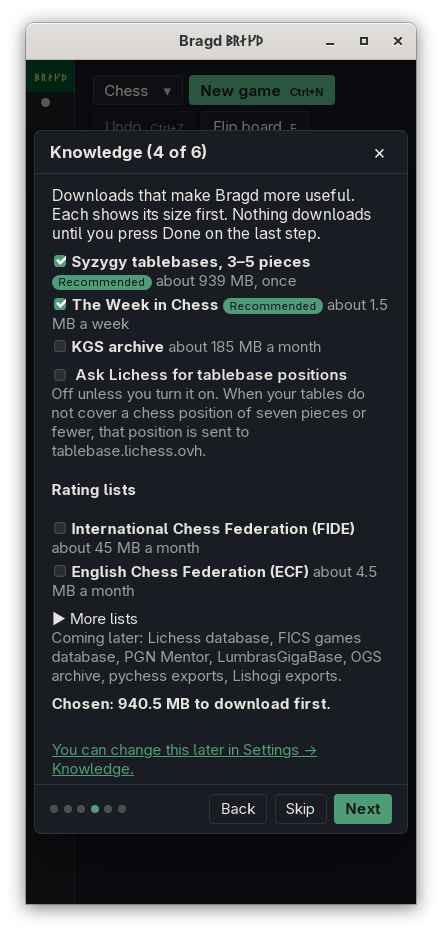
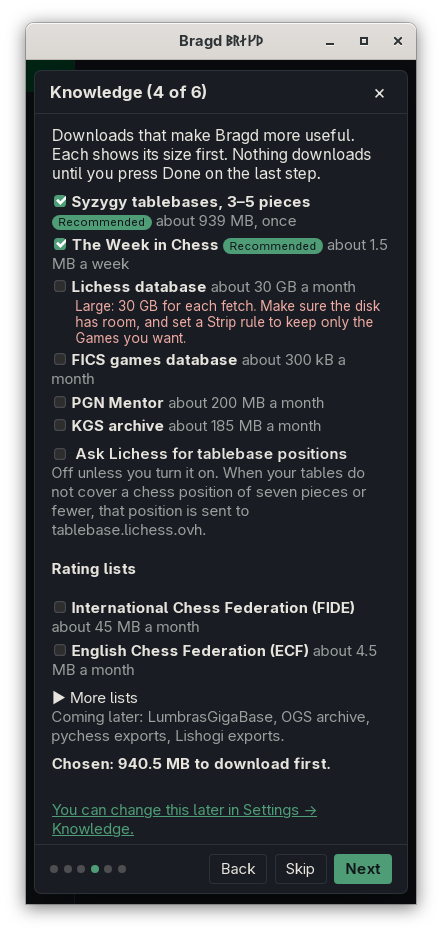
The KGS archive's Source takes no parts or first month, beside the chess Sources that do.

Changed region(s): [[0.0588, 0.0622, 0.9118, 0.9636], [0.8529, 0.2487, 0.8824, 0.2797], [0.8529, 0.0932, 0.8824, 0.1243]]

diff --git a/crates/bragd-helper/src/sources/kgs.rs b/crates/bragd-helper/src/sources/kgs.rs
@@ -51,6 +51,8 @@ impl Source for Kgs {
             url: KGS_INDEX.into(),
             fetchable: true,
             kind: Kind::Games,
+            parts: vec![],
+            months: false,
         }
     }
 
